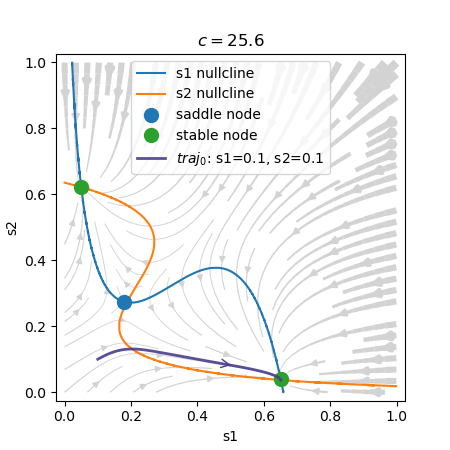
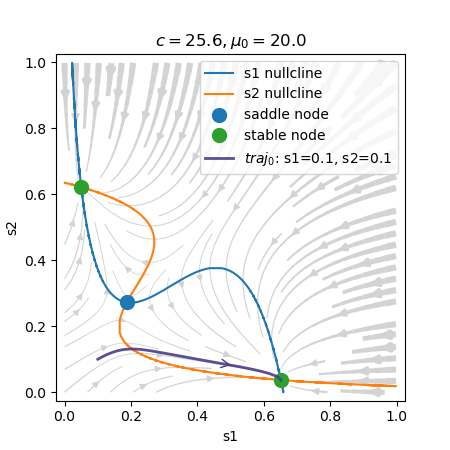
update the dmnet rate model

diff --git a/network_analysis/dmnet_rate_model_ppa.py b/network_analysis/dmnet_rate_model_ppa.py
@@ -6,30 +6,32 @@ from network_models.decision_making_rate_model import DecisionMakingRateModel
 # 使用高精度float模式
 bp.math.enable_x64()
 
-coherence=6.4
-model = DecisionMakingRateModel(1, coherence=coherence)
+def dmnet_ppa(coherence, mu0=20.):
+  model = DecisionMakingRateModel(1, coherence=coherence)
 
-plt.figure(figsize=(4.5, 4.5))
-analyzer = bp.analysis.PhasePlane2D(
-  model=model,
-  target_vars={'s1': [0, 1], 's2': [0, 1]},
-  # fixed_vars={'I1_noise': 0., 'I2_noise': 0.},
-  pars_update={'mu0': 20.},
-  resolutions={'s1': 0.002, 's2': 0.002},
-)
-analyzer.plot_vector_field(plot_style=dict(color='lightgrey'))
-analyzer.plot_nullcline(coords=dict(s2='s2-s1'),
-                        x_style={'fmt': '-'},
-                        y_style={'fmt': '-'})
-analyzer.plot_fixed_point(tol_aux=2e-10)
-analyzer.plot_trajectory(
-	{'s1': [0.1], 's2': [0.1]},
-	duration=2000., color='darkslateblue', linewidth=2, alpha=0.9,
-)
-# dmnet = DecisionMakingRateModel(1, coherence=coherence)
-# runner = bp.DSRunner(dmnet, monitors=['s1', 's2'], inputs=('mu0', 20.))
-# runner.run(2000)
-# plt.plot(runner.mon.s1, runner.mon.s2, linewidth=2, color='darkslateblue')
+  # 构相平面建分析器
+  analyzer = bp.analysis.PhasePlane2D(
+    model=model,
+    target_vars={'s1': [0, 1], 's2': [0, 1]},
+    fixed_vars={'I1_noise': 0., 'I2_noise': 0.},
+    pars_update={'mu0': mu0},
+    resolutions={'s1': 0.002, 's2': 0.002},
+  )
 
-plt.title('$c={}$'.format(coherence))
-analyzer.show_figure()
+  plt.figure(figsize=(4.5, 4.5))
+  # 画出向量场
+  analyzer.plot_vector_field(plot_style=dict(color='lightgrey'))
+  # 画出零增长等值线
+  analyzer.plot_nullcline(coords=dict(s2='s2-s1'), x_style={'fmt': '-'}, y_style={'fmt': '-'})
+  # 画出奇点
+  analyzer.plot_fixed_point(tol_aux=2e-10)
+  # 画出s1, s2的运动轨迹
+  analyzer.plot_trajectory(
+    {'s1': [0.1], 's2': [0.1]},
+    duration=2000., color='darkslateblue', linewidth=2, alpha=0.9,
+  )
+
+  plt.title('$c={}, \mu_0={}$'.format(coherence, mu0))
+  plt.show()
+
+dmnet_ppa(25.6, 20.)

diff --git a/neuron_model_analysis/AdEx_ppa.py b/neuron_model_analysis/AdEx_ppa.py
@@ -21,7 +21,7 @@ def ppa2d(group, title, v_range=None, w_range=None, Iext=65., duration=400):
 
 	# 画出V, w的零增长曲线
 	phase_plane_analyzer.plot_nullcline()
-	# 画出固定点
+	# 画出奇点
 	phase_plane_analyzer.plot_fixed_point()
 	# 画出向量场
 	phase_plane_analyzer.plot_vector_field(plot_style=dict(color='lightgrey', density=1.))
